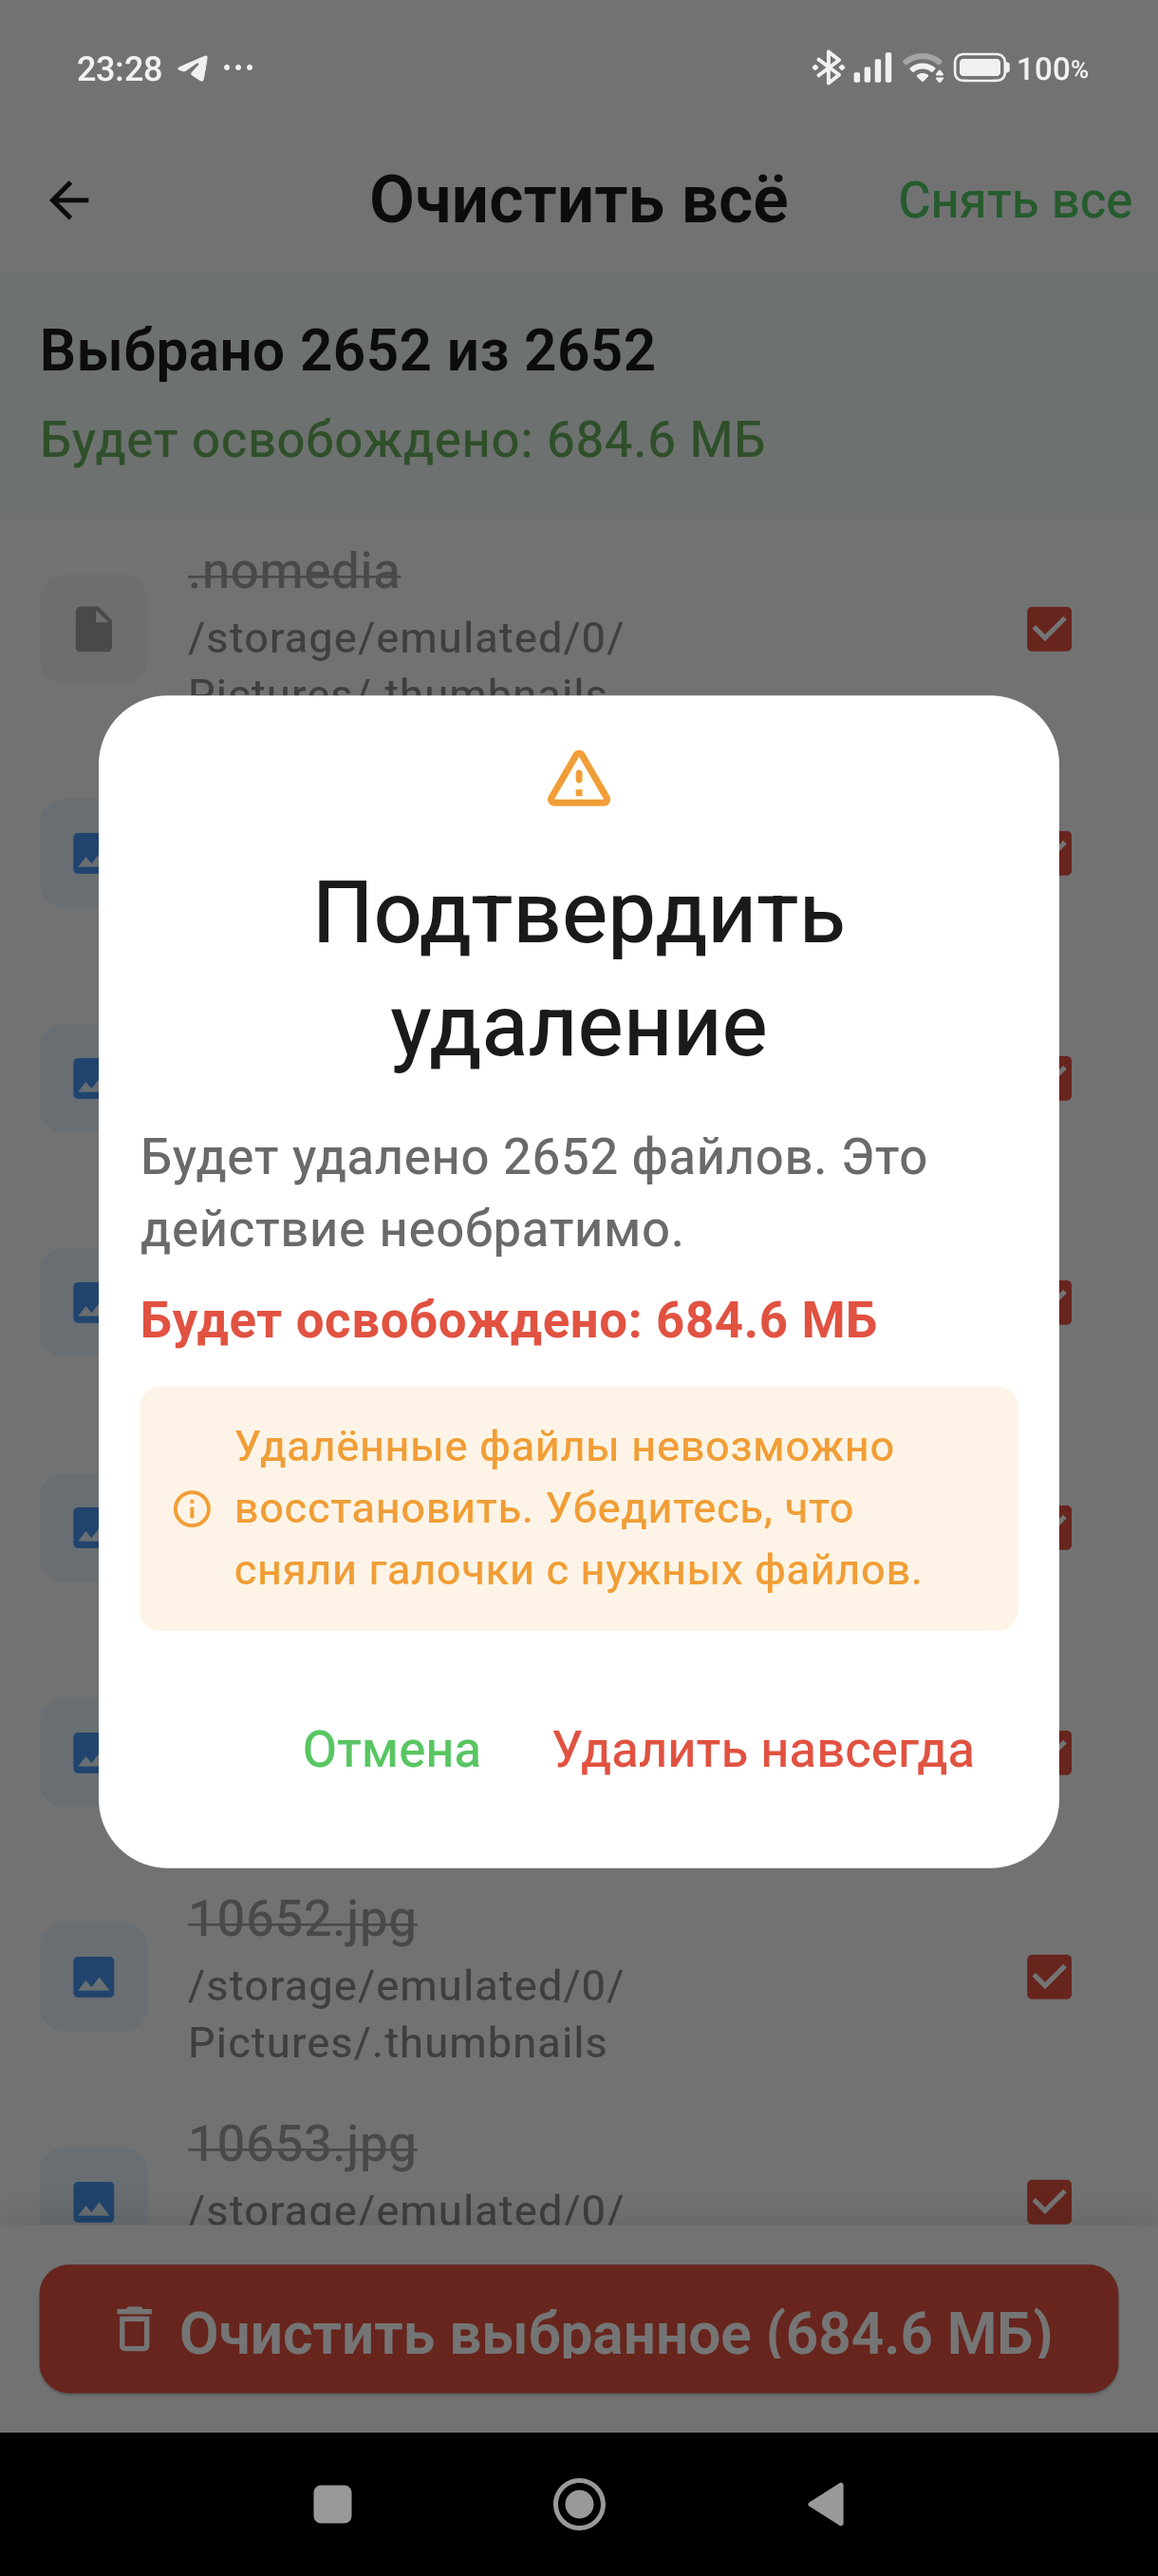
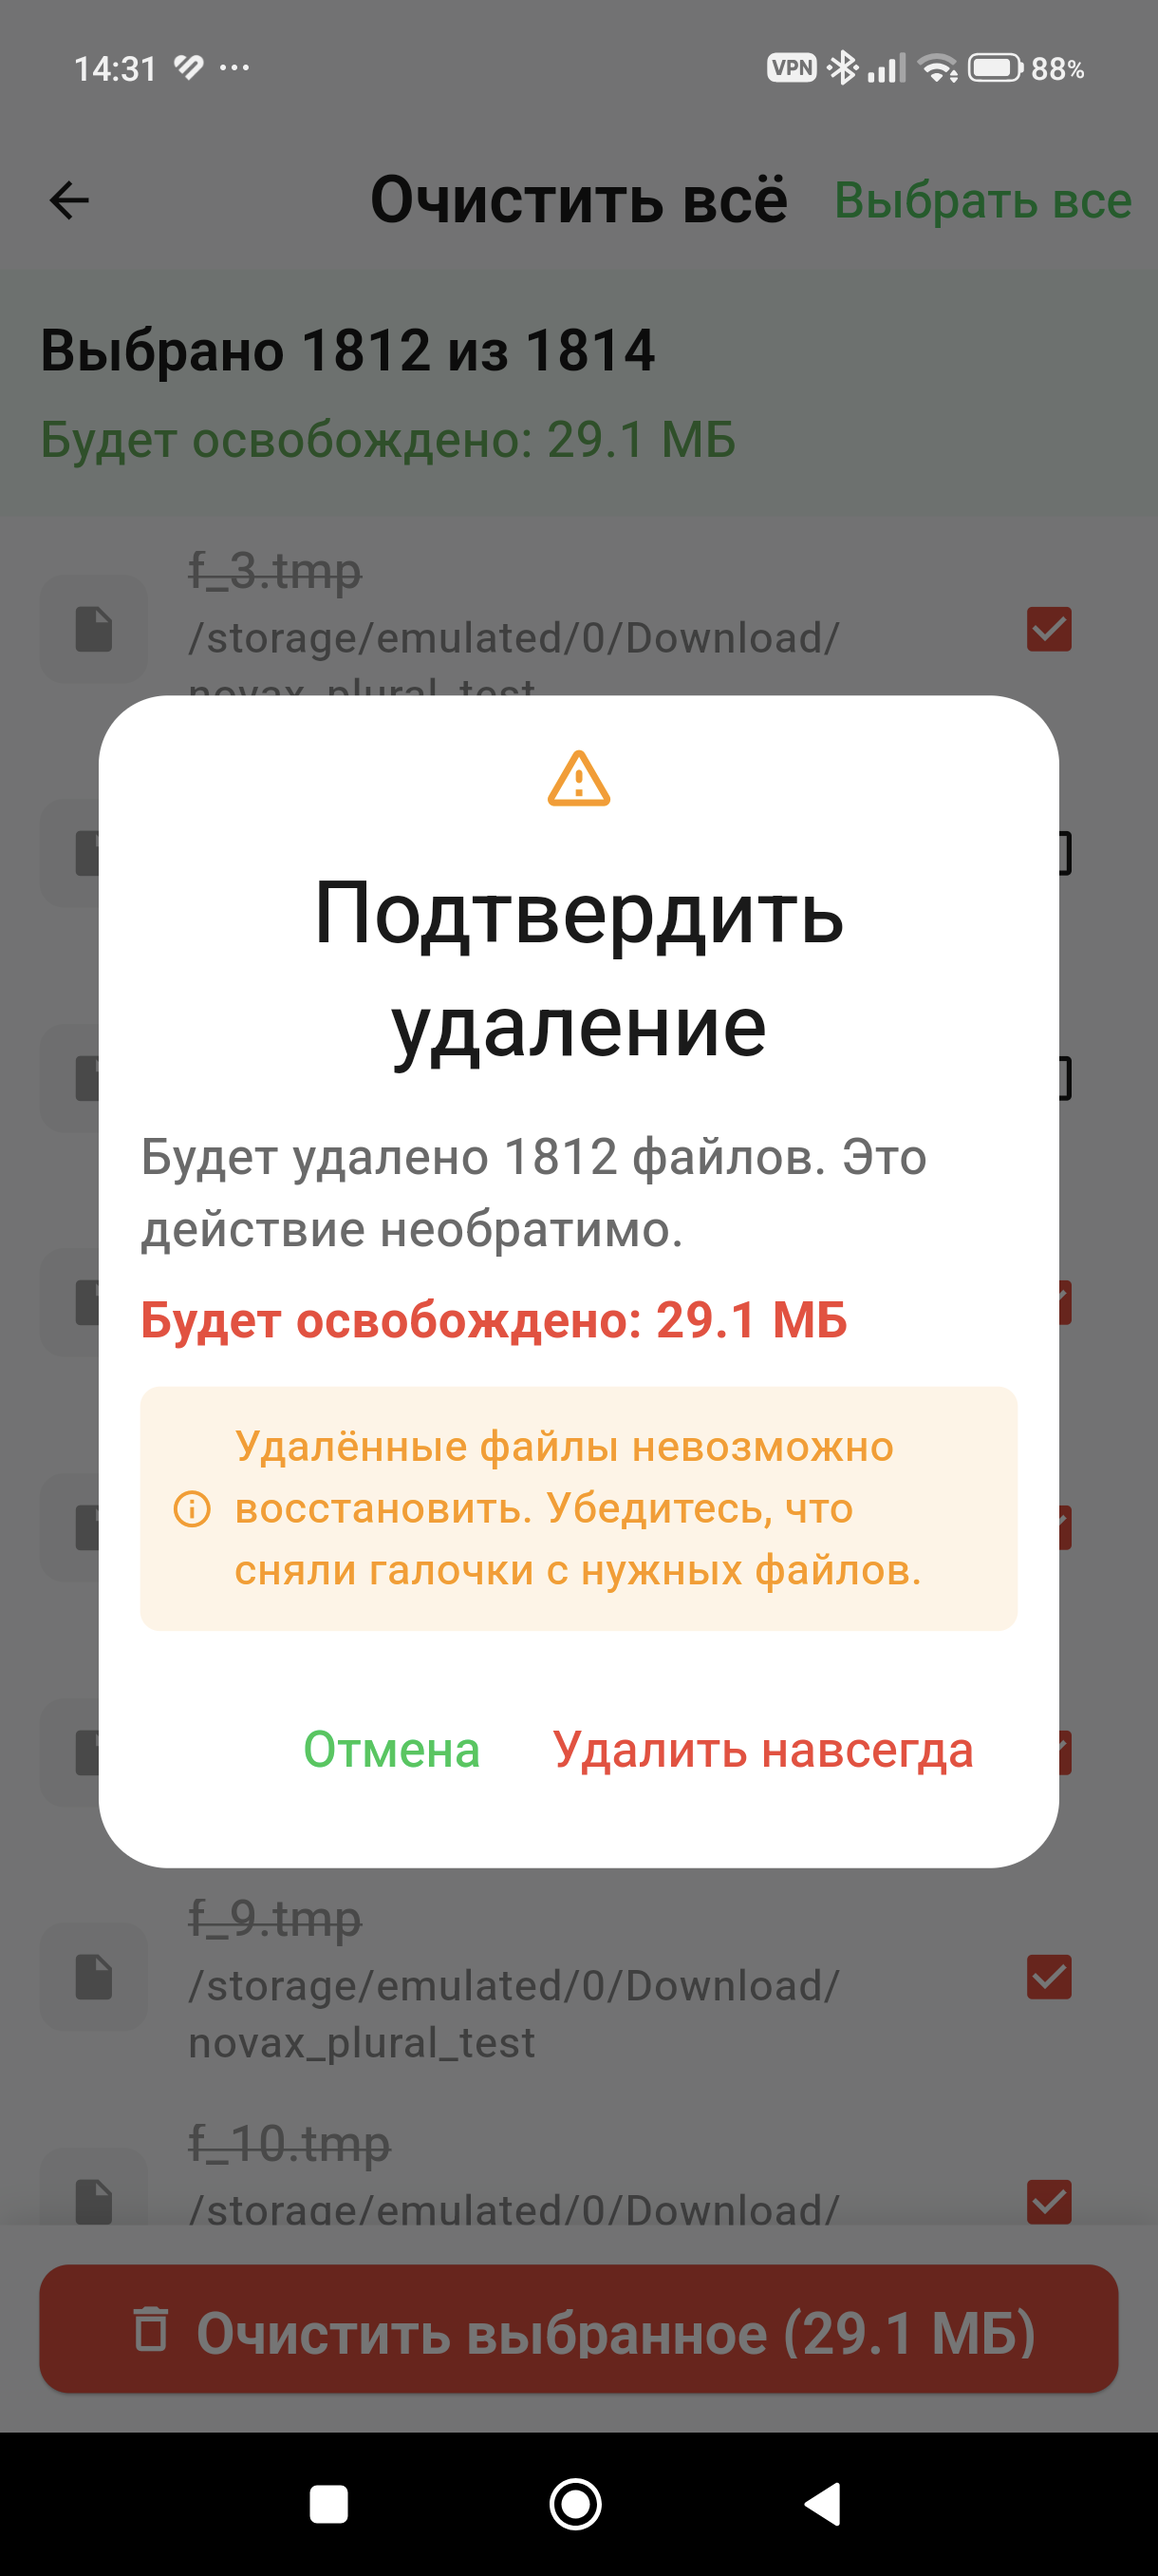
mirror sync 2026-10-27 15:10

diff --git a/design/cleaner/raw/2026-10-27_14T_v2.3.1/_NOTE.md b/design/cleaner/raw/2026-10-27_14T_v2.3.1/_NOTE.md
@@ -14,3 +14,16 @@
 - 01_main.png и 05_duplicates_or_large.png пересняты с нового APK.
 - В 05 строка группы теперь: «Группа 1: 2 файла • 763.0 КБ можно освободить».
 - Для дубликатов создана временная нейтральная пара IMG_20261027_113052*.jpg; после кадра удалена.
+
+## Обновление 27.10 14:35 — проверка по запросу Ги/Р-2
+- Устройство: Xiaomi 14T Pro, Wi-Fi ADB [СКРЫТО:IP]:41369 (после пэйринга).
+- APK: novax_cleaner_v2.3.1+4031_arm64.apk, md5 d8d2785afe108f0f407ce88beeb7696f,
+  dumpsys versionCode=4031, versionName=2.3.1.
+- font_scale: до=1.45 → для 01_main временно 1.0 → после=1.45 (проверено settings get).
+- 01_main.png переснят при font_scale 1.0. Результат проверки: quick-stats в одну строку,
+  но первый ярлык по-прежнему обрезан: «Временные фа…». Не маскировал, сообщаю строкой.
+- 03_clean_confirmation.png: точный счётчик 2652 после предыдущей деструктивной очистки
+  не восстановился (сканер на набивке уперся в 1814). Проверил форму на 1812 (то же
+  окончание «…12»): диалог показывает «Будет удалено 1812 файлов». В app_ru.arb ключ
+  willDeleteForever сейчас жёсткий: «Будет удалено {count} файлов…», т.е. для 2652
+  ожидается та же ошибочная форма «2652 файлов».

diff --git a/marketing/tasks/QUEUE.md b/marketing/tasks/QUEUE.md
@@ -49,6 +49,6 @@
 
 ## Инфраструктура
 
-- 14T Pro по Wi-Fi adb: `[СКРЫТО:IP]:35731` (постоянный порт; IP сменился 26.10 со
+- 14T Pro по Wi-Fi adb: `[СКРЫТО:IP]:41369` (порт МЕНЯЕТСЯ при перепэйринге — смотри adb devices; IP сменился 26.10 со
   .8, старый адрес мёртв; при обрыве — `adb connect [СКРЫТО:IP]:35731`). A52 по USB: RZ8R409QVQB. Отчёт передан Гие 24.10.
 - store_lint.py — прогонять ПЕРЕД каждой заливкой; 3 ложных срабатывания починены Гиа 23.10.
